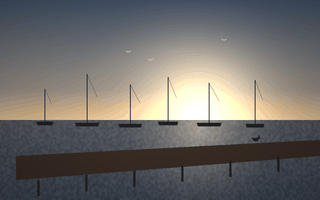
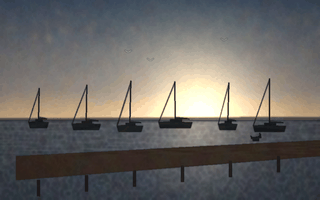
Art draft 2: the painterly pass, and trees that stand on their hill
"Art still needs work" - agreed, and the user caught the exact
defect mid-pass: the title's spruce row planted on a FIXED
baseline while the headland's ridge dropped away beneath it, so
past the cliff edge the trees hung in the air. sprucerow() now
takes a ridge polyline and plants every tree on the slope under
it; all four affected rows re-anchored.

The bigger move is a global PAINTERLY PASS on every scene: multi-
octave canvas grain; EDGE-HOLD ink - the image's own luminance
gradients darken into drawn, held edges, which is the single
cheapest step from poly-fill toward adventure-background; and
low-frequency independent RGB wobble, color mixed on the brush
instead of flat fills. Per scene: clouds() masses in the skies,
water_pull() horizontal brush strokes across every sea, vertical
rain pull on the winter storm.

Composition rounds the renders demanded: the coast's headland
edge now SLOPES into the sea instead of ending in a vertical
razor, its sea stacks went organic six-point with lit edges, and
Northwind's fleet stopped being six identical flagpoles - sheer
lines, cabin blocks, tilted masts, booms with furled sail
bundles, forestays, and a breakwater band so the horizon isn't a
ruler. All ten PNGs regenerated at 960x540 source (3x the filter
target; 1280 timed the batch out).

NOTE for the sign-off session: the AI-painted-source path (the
real fidelity end-state) is wired and waiting, but the image-gen
MCP tools need an interactive approval this autonomous session
[…]

diff --git a/godot/tools/art/scene_painter.py b/godot/tools/art/scene_painter.py
@@ -132,13 +132,108 @@ def spruce(arr, x, base, h, color, blur=0.6):
     fill_poly(arr, pts, color, blur=blur)
 
 
-def sprucerow(arr, x0, x1, base, color, seed=1, blur=0.6):
+def sprucerow(arr, x0, x1, base, color, seed=1, blur=0.6, ridge=None):
+    """A row of spruces. `base` plants them on a flat line; `ridge`
+    — a list of (x, y) points — plants each tree ON the slope
+    beneath it (a fixed base left trees hanging in the air past
+    the cliff edge on salmonberry's title, user-caught 2026-08)."""
     rng = np.random.default_rng(seed)
+
+    def base_at(xq):
+        if not ridge:
+            return base
+        if xq <= ridge[0][0]:
+            return ridge[0][1]
+        for i in range(len(ridge) - 1):
+            (ax, ay), (bx2, by2) = ridge[i], ridge[i + 1]
+            if ax <= xq <= bx2:
+                f = (xq - ax) / max(1e-5, bx2 - ax)
+                return ay + (by2 - ay) * f
+        return ridge[-1][1]
+
     x = x0
     while x < x1:
         h = rng.integers(int((x1 - x0) * 0.06), int((x1 - x0) * 0.16) + 6)
-        spruce(arr, x, base + rng.integers(-4, 5), h, color, blur)
+        spruce(arr, x, base_at(x) + rng.integers(-2, 5), h, color, blur)
         x += rng.integers(int(h * 0.35), int(h * 0.7) + 3)
+
+
+def octave_noise(H, W, seed=1, octaves=3, base_scale=6):
+    """Multi-octave value noise — paper/canvas grain with structure
+    at several sizes, not the single-frequency shimmer of noise()."""
+    out = np.zeros((H, W), np.float32)
+    amp, total = 1.0, 0.0
+    for o in range(octaves):
+        out += noise(H, W, scale=max(2, base_scale * (2 ** o)), seed=seed + o * 17,
+                     blur=1.0 + o) * amp
+        total += amp
+        amp *= 0.55
+    return out / total
+
+
+def streaks(H, W, seed=1, axis='H', scale=5):
+    """Anisotropic noise — directional brush pull. axis='H' stretches
+    horizontally (water, sky), 'V' vertically (walls, rain)."""
+    if axis == 'H':
+        n = noise(H, max(2, W // 10), scale=scale, seed=seed, blur=0.8)
+        im = Image.fromarray((n * 255).astype(np.uint8)).resize((W, H), Image.BICUBIC)
+    else:
+        n = noise(max(2, H // 10), W, scale=scale, seed=seed, blur=0.8)
+        im = Image.fromarray((n * 255).astype(np.uint8)).resize((W, H), Image.BICUBIC)
+    return np.asarray(im, np.float32) / 255.0
+
+
+def water_pull(arr, y0f, y1f, seed=6, amount=14.0):
+    """Horizontal brush pull across a water band — the strokes the
+    sea is painted with."""
+    H, W, _ = arr.shape
+    s = streaks(H, W, seed=seed, axis='H', scale=4)
+    prof = np.zeros(H, np.float32)
+    prof[int(H * y0f):int(H * y1f)] = 1.0
+    k = np.ones(9, np.float32) / 9.0
+    prof = np.convolve(prof, k, mode="same")
+    arr[:] = arr + ((s - 0.5) * amount * prof[:, None])[:, :, None]
+
+
+def clouds(arr, seed=8, top=0.0, bottom=0.45, tint=(255, 255, 255), amount=0.35):
+    """Soft cloud masses in the sky band: thresholded, blurred
+    octave noise, brighter toward their tops."""
+    H, W, _ = arr.shape
+    n = octave_noise(H, W, seed=seed, octaves=3, base_scale=4)
+    band = np.zeros((H, 1), np.float32)
+    y0, y1 = int(H * top), int(H * bottom)
+    if y1 > y0:
+        ys = np.linspace(0, 1, y1 - y0)
+        band[y0:y1, 0] = np.sin(ys * math.pi) ** 0.8
+    m = np.clip((n - 0.55) * 3.2, 0, 1) * band
+    m = np.asarray(Image.fromarray((m * 255).astype(np.uint8)).filter(
+        ImageFilter.GaussianBlur(6)), np.float32) / 255.0
+    arr[:] = arr * (1 - (m * amount)[:, :, None]) + \
+        np.array(tint, np.float32) * (m * amount)[:, :, None]
+
+
+def painterly(arr, seed=5, grain=9.0, edge_hold=0.35, hue_wobble=4.0):
+    """The global finish pass — what moves a poly-fill toward a
+    painting. Three effects:
+      1. multi-octave canvas grain over everything;
+      2. EDGE-HOLD: darken where the image's own luminance gradient
+         is strong — every shape gets a drawn, held edge (the
+         adventure-background ink);
+      3. low-frequency independent RGB wobble — mixed-on-the-brush
+         color variance instead of flat fills."""
+    H, W, _ = arr.shape
+    g = octave_noise(H, W, seed=seed, octaves=3, base_scale=5)
+    arr[:] = arr + ((g - 0.5) * grain)[:, :, None]
+    lum = arr.mean(axis=2)
+    gy, gx = np.gradient(lum)
+    mag = np.sqrt(gx * gx + gy * gy)
+    mag = np.clip(mag / 24.0, 0, 1)
+    mag = np.asarray(Image.fromarray((mag * 255).astype(np.uint8)).filter(
+        ImageFilter.GaussianBlur(0.8)), np.float32) / 255.0
+    arr[:] = arr * (1 - (mag * edge_hold)[:, :, None])
+    for c in range(3):
+        w = noise(H, W, scale=22, seed=seed + 31 + c * 7, blur=3.0)
+        arr[:, :, c] += (w - 0.5) * hue_wobble * 2.0
 
 
 def clamp(arr):
@@ -168,7 +263,8 @@ def salmonberry_title(H, W):
     fill_poly(arr, [(W * 0.55, hz), (W * 0.7, hz - H * 0.16), (W * 0.9, hz - H * 0.10), (W, hz - H * 0.13), (W, hz), ], C["fir_far"], blur=5)
     # mid headland
     fill_poly(arr, [(W * 0.62, hz), (W * 0.78, hz - H * 0.24), (W * 0.92, hz - H * 0.15), (W, hz - H * 0.19), (W, hz), ], C["fir_mid"], blur=2.5)
-    sprucerow(arr, int(W * 0.72), int(W * 0.99), hz - 4, C["fir_mid"], seed=7, blur=1.5)
+    sprucerow(arr, int(W * 0.72), int(W * 0.99), hz - 4, C["fir_mid"], seed=7, blur=1.5,
+              ridge=[(W * 0.62, hz), (W * 0.78, hz - H * 0.23), (W * 0.92, hz - H * 0.14), (W, hz - H * 0.18)])
     # sea
     sea = sky(H, W, [(0.0, C["sea_hi"]), (1.0, C["sea_lo"])])
     seam = np.zeros((H, W, 1), np.float32); seam[hz:, :, 0] = 1.0
@@ -191,7 +287,8 @@ def salmonberry_title(H, W):
     tex(arr, _mask(H, W, head_pts), 22, seed=14, scale=7)
     # sun-side rim on the headland's sea edge
     fill_poly(arr, [(W * 0.14, H * 0.36), (W * 0.26, H * 0.52), (W * 0.245, H * 0.545), (W * 0.132, H * 0.375)], (120, 140, 104), blur=1.5, opacity=0.7)
-    sprucerow(arr, int(W * 0.02), int(W * 0.28), int(H * 0.40), C["fir"], seed=3, blur=1.0)
+    sprucerow(arr, int(W * 0.02), int(W * 0.23), int(H * 0.40), C["fir"], seed=3, blur=1.0,
+              ridge=[(0, H * 0.31), (W * 0.14, H * 0.37), (W * 0.26, H * 0.53)])
     # the cannery on pilings + the house, small, at the base of the headland
     dcx = int(W * 0.30)
     fill_poly(arr, [(dcx, hz + 4), (dcx + W * 0.14, hz + 4), (dcx + W * 0.14, hz + 22), (dcx, hz + 22)], C["rust"], blur=0.5)
@@ -218,6 +315,8 @@ def salmonberry_title(H, W):
     veil = np.asarray(Image.fromarray((veil[:, :, 0] * 255).astype(np.uint8)).filter(ImageFilter.GaussianBlur(20)), np.float32)[:, :, None] / 255.0
     arr[:] = arr * (1 - veil * 0.35) + np.array(C["fog_lo"], np.float32) * (veil * 0.35)
     # gulls
+    clouds(arr, seed=8, top=0.02, bottom=0.42, tint=(240, 238, 230), amount=0.30)
+    water_pull(arr, 0.62, 1.0, seed=6)
     _gulls(arr, [(W * 0.6, H * 0.22), (W * 0.66, H * 0.27), (W * 0.52, H * 0.18)])
     vignette(arr, 0.30)
     return arr
@@ -248,17 +347,28 @@ def salmonberry_coast(H, W):
     arr = sky(H, W, [(0.0, C["fog_hi"]), (0.6, (200, 198, 188)), (1.0, C["fog_lo"])])
     hz = int(H * 0.58)
     glow(arr, W * 0.7, hz - 20, W * 0.4, (255, 228, 188), 0.4)
-    fill_poly(arr, [(W * 0.6, hz), (W * 0.78, hz - H * 0.3), (W, hz - H * 0.22), (W, hz)], C["fir_mid"], blur=3)
-    fill_poly(arr, [(W * 0.72, H), (W * 0.72, hz - H * 0.34), (W * 0.9, hz - H * 0.2), (W, hz - H * 0.1), (W, H)], C["fir"], blur=1)
-    sprucerow(arr, int(W * 0.74), int(W * 0.99), hz - H * 0.30, C["fir"], seed=5, blur=1.2)
+    fill_poly(arr, [(W * 0.6, hz), (W * 0.78, hz - H * 0.3), (W, hz - H * 0.22), (W, hz)], C["fir_far"], blur=4)
+    head_pts2 = [(W * 0.86, H), (W * 0.80, hz + H * 0.08), (W * 0.745, hz - H * 0.18),
+                 (W * 0.76, hz - H * 0.34), (W * 0.9, hz - H * 0.2), (W, hz - H * 0.1), (W, H)]
+    grad_poly(arr, head_pts2, (86, 112, 88), (34, 50, 40), blur=1)
+    tex(arr, _mask(H, W, head_pts2), 20, seed=6, scale=8)
+    sprucerow(arr, int(W * 0.74), int(W * 0.99), hz - H * 0.30, C["fir"], seed=5, blur=1.2,
+              ridge=[(W * 0.76, hz - H * 0.33), (W * 0.9, hz - H * 0.19), (W, hz - H * 0.09)])
     sea = sky(H, W, [(0.0, C["sea_hi"]), (1.0, C["sea_lo"])])
     seam = np.zeros((H, W, 1), np.float32); seam[hz:, :, 0] = 1.0
     arr[:] = arr * (1 - seam) + sea * seam
     tex(arr, seam[:, :, 0], 24, seed=4, scale=6)
+    # horizon haze so the seam isn't a razor line
+    fill_poly(arr, [(0, hz - H * 0.02), (W, hz - H * 0.02), (W, hz + H * 0.03), (0, hz + H * 0.03)], C["fog_lo"], blur=8, opacity=0.45)
     for (cx, sh, sw) in [(W * 0.18, H * 0.26, W * 0.045), (W * 0.26, H * 0.16, W * 0.03)]:
         base = hz + 8
-        fill_poly(arr, [(cx - sw, base), (cx - sw * 0.4, base - sh), (cx + sw * 0.4, base - sh), (cx + sw, base)], C["basalt"], blur=1)
+        pts = [(cx - sw, base), (cx - sw * 0.75, base - sh * 0.65), (cx - sw * 0.3, base - sh),
+               (cx + sw * 0.25, base - sh * 0.96), (cx + sw * 0.7, base - sh * 0.7), (cx + sw, base)]
+        fill_poly(arr, pts, C["basalt"], blur=1.1)
+        fill_poly(arr, [(cx + sw * 0.05, base), (cx + sw * 0.18, base - sh * 0.9), (cx + sw * 0.55, base - sh * 0.65), (cx + sw, base)], C["basalt_lit"], blur=1.2, opacity=0.55)
     fill_poly(arr, [(0, hz + 6), (W, hz + 2), (W, hz + 16), (0, hz + 22)], C["foam"], blur=3, opacity=0.5)
+    clouds(arr, seed=12, top=0.02, bottom=0.40, tint=(238, 236, 228), amount=0.28)
+    water_pull(arr, 0.58, 1.0, seed=9)
     _gulls(arr, [(W * 0.4, H * 0.2), (W * 0.46, H * 0.24)])
     vignette(arr, 0.3)
     return arr
@@ -342,6 +452,7 @@ def salmonberry_town(H, W):
     fill_poly(arr, [(W * 0.335, H * 0.765), (W * 0.395, H * 0.765), (W * 0.39, H * 0.79), (W * 0.34, H * 0.79)], (188, 198, 204), blur=0.5, opacity=0.85)
     for wxi in (0.315, 0.40):
         fill_poly(arr, [(W * wxi, H * 0.87), (W * (wxi + 0.012), H * 0.87), (W * (wxi + 0.012), H * 0.885), (W * wxi, H * 0.885)], (30, 28, 28), blur=0.4)
+    clouds(arr, seed=29, top=0.0, bottom=0.30, tint=(228, 228, 222), amount=0.24)
     _gulls(arr, [(W * 0.5, H * 0.3), (W * 0.55, H * 0.34)])
     vignette(arr, 0.32)
     return arr
@@ -381,7 +492,10 @@ def salmonberry_house(H, W):
         fill_poly(arr, [(sx0, ly - H * 0.028), (sx0 + W * 0.035, ly - H * 0.024), (sx0 + W * 0.045, ly + H * 0.035), (sx0 + W * 0.008, ly + H * 0.04)], C["foam"], blur=1.0, opacity=0.92)
     # the path down, pale, switchbacked
     fill_poly(arr, [(hx + W * 0.07, hy + H * 0.16), (hx + W * 0.09, hy + H * 0.16), (W * 0.5, H * 0.9), (W * 0.42, H)], (150, 138, 112), blur=2, opacity=0.7)
-    sprucerow(arr, int(W * 0.8), W, int(H * 0.6), C["fir"], seed=8, blur=1.0)
+    sprucerow(arr, int(W * 0.8), W, int(H * 0.6), C["fir"], seed=8, blur=1.0,
+              ridge=[(W * 0.78, H * 0.62), (W, H * 0.58)])
+    clouds(arr, seed=15, top=0.02, bottom=0.38, tint=(244, 234, 220), amount=0.26)
+    water_pull(arr, 0.66, 1.0, seed=11)
     _gulls(arr, [(W * 0.62, H * 0.25)])
     vignette(arr, 0.3)
     return arr
@@ -471,9 +585,11 @@ def salmonberry_winter(H, W):
             pts.append((x + sh - wid, yy))
         fill_poly(arr, pts, (38, 50, 42), blur=0.8)
         x += int(rng.integers(22, 44))
-    # rain streaks
-    streak = noise(H, W, scale=2, seed=23, blur=0)
-    arr[:] = arr + ((streak[:, :, None] - 0.5) * 6)
+    clouds(arr, seed=19, top=0.0, bottom=0.5, tint=(150, 156, 164), amount=0.5)
+    water_pull(arr, 0.55, 1.0, seed=21, amount=22.0)
+    # rain: vertical pull over everything
+    rs = streaks(H, W, seed=23, axis='V', scale=3)
+    arr[:] = arr + ((rs - 0.5) * 7)[:, :, None]
     vignette(arr, 0.4)
     return arr
 
@@ -512,6 +628,7 @@ def estuary4_watershed(H, W):
     fill_poly(arr, [(bx - 2, by), (bx + 2, by), (bx + 1, by + 22), (bx - 1, by + 22)], (90, 98, 104), blur=0.4)
     fill_poly(arr, [(bx - 7, by - 10), (bx + 5, by - 14), (bx + 8, by - 2), (bx - 2, by + 2)], (120, 128, 134), blur=0.6)
     fill_poly(arr, [(bx + 4, by - 14), (bx + 14, by - 18), (bx + 15, by - 16), (bx + 6, by - 11)], (90, 98, 104), blur=0.4)
+    clouds(arr, seed=35, top=0.0, bottom=0.32, tint=(230, 234, 230), amount=0.25)
     vignette(arr, 0.25)
     return arr
 
@@ -528,15 +645,24 @@ def northwind_morning(H, W):
     tex(arr, seam[:, :, 0], 20, seed=41, scale=7)
     glow(arr, W * 0.62, hz + 26, W * 0.3, (255, 224, 168), 0.35)
     # moored fleet: hulls + mast lines against the light
+    # far breakwater band so the fleet doesn't sit on a razor horizon
+    fill_poly(arr, [(0, hz - 4), (W, hz - 8), (W, hz + 2), (0, hz + 4)], (54, 58, 66), blur=2, opacity=0.8)
     rng = np.random.default_rng(43)
     for i in range(6):
-        bx = W * (0.14 + i * 0.13) + rng.integers(-10, 10)
-        bw = W * rng.uniform(0.05, 0.08)
-        by = hz + 6 + i % 3 * 4
-        fill_poly(arr, [(bx - bw / 2, by), (bx + bw / 2, by), (bx + bw / 2 - 4, by + 12), (bx - bw / 2 + 4, by + 12)], C["ink"], blur=0.7)
-        mh = H * rng.uniform(0.16, 0.3)
-        fill_poly(arr, [(bx - 1, by), (bx + 1, by), (bx + 1, by - mh), (bx - 1, by - mh)], C["ink"], blur=0.3)
-        fill_poly(arr, [(bx, by - mh), (bx + bw * 0.4, by - mh * 0.55), (bx + bw * 0.4 + 1, by - mh * 0.55 + 2), (bx + 1, by - mh + 2)], C["ink"], blur=0.3, opacity=0.8)
+        bx = W * (0.12 + i * 0.145) + rng.integers(-14, 14)
+        bw = W * rng.uniform(0.06, 0.11)
+        by = hz + 8 + (i % 3) * 5
+        # hull: sheer line up at the bow, small cabin block
+        fill_poly(arr, [(bx - bw / 2, by - 3), (bx - bw * 0.2, by - 5), (bx + bw / 2, by - 2), (bx + bw / 2 - 5, by + 13), (bx - bw / 2 + 5, by + 13)], C["ink"], blur=0.7)
+        fill_poly(arr, [(bx - bw * 0.15, by - 10), (bx + bw * 0.2, by - 10), (bx + bw * 0.2, by - 3), (bx - bw * 0.15, by - 3)], C["ink"], blur=0.5)
+        mh = H * rng.uniform(0.17, 0.30)
+        tilt = rng.uniform(-0.03, 0.03) * mh
+        fill_poly(arr, [(bx - 1, by - 8), (bx + 1, by - 8), (bx + 1 + tilt, by - mh), (bx - 1 + tilt, by - mh)], C["ink"], blur=0.3)
+        # boom + furled sail bundle along it
+        fill_poly(arr, [(bx, by - 14), (bx + bw * 0.42, by - 12), (bx + bw * 0.42, by - 10), (bx, by - 11)], C["ink"], blur=0.35)
+        fill_poly(arr, [(bx + 2, by - 17), (bx + bw * 0.36, by - 14), (bx + bw * 0.36, by - 12), (bx + 2, by - 14)], (52, 50, 52), blur=0.5, opacity=0.9)
+        # forestay line, bow to masthead
+        fill_poly(arr, [(bx + tilt, by - mh), (bx - bw / 2, by - 4), (bx - bw / 2 + 1.5, by - 3), (bx + tilt + 1.5, by - mh + 1.5)], C["ink"], blur=0.25, opacity=0.7)
     # the dock: dark planks running right, pilings
     fill_poly(arr, [(W * 0.05, H * 0.78), (W, H * 0.70), (W, H * 0.78), (W * 0.05, H * 0.9)], (56, 44, 36), blur=0.7)
     for i in range(6):
@@ -549,6 +675,8 @@ def northwind_morning(H, W):
     fill_poly(arr, [(dx + 6, dy - 12), (dx + 14, dy - 18), (dx + 15, dy - 8), (dx + 8, dy - 8)], C["ink"], blur=0.4)
     fill_poly(arr, [(dx + 9, dy - 18), (dx + 11, dy - 22), (dx + 13, dy - 18)], C["ink"], blur=0.3)
     fill_poly(arr, [(dx - 10, dy - 9), (dx - 16, dy - 14), (dx - 15, dy - 6), (dx - 10, dy - 4)], C["ink"], blur=0.4)
+    clouds(arr, seed=25, top=0.0, bottom=0.35, tint=(255, 214, 160), amount=0.30)
+    water_pull(arr, 0.60, 0.78, seed=27)
     _gulls(arr, [(W * 0.4, H * 0.26), (W * 0.47, H * 0.3), (W * 0.7, H * 0.2)])
     vignette(arr, 0.3)
     return arr
@@ -608,10 +736,11 @@ SCENES = {
 }
 
 
-def paint(scene_id, out_png, source_png=None, W=1280, H=720, colors=256, preview=0):
+def paint(scene_id, out_png, source_png=None, W=960, H=540, colors=256, preview=0):
     if scene_id not in SCENES:
         raise SystemExit("unknown scene '%s' (see --list)" % scene_id)
     arr = SCENES[scene_id](H, W)
+    painterly(arr)
     src = Image.fromarray(clamp(arr))
     sp = source_png or (out_png.rsplit(".", 1)[0] + ".src.png")
     os.makedirs(os.path.dirname(os.path.abspath(sp)), exist_ok=True)

diff --git a/lore/_SLOWSTICK_AESTHETIC_BIBLE.md b/lore/_SLOWSTICK_AESTHETIC_BIBLE.md
@@ -31,6 +31,23 @@ What this changes:
   are now the GOAL, not banned. (The bans still apply to the 3D VN
   locales and the `demoscene_post` shader stack — those are a separate
   system.) Font floor 12 still holds for UI text drawn over scenes.
+- **Procedural draft 2 (same day, after "art still needs work"):**
+  the painter gained a global PAINTERLY PASS (multi-octave canvas
+  grain · EDGE-HOLD ink that darkens along the image's own
+  luminance gradients, giving every shape a drawn edge · low-freq
+  independent RGB wobble = mixed-on-the-brush color) plus
+  per-scene atmosphere (clouds(), water_pull() horizontal brush
+  strokes, vertical rain pull) — and the composition fixes the
+  renders demanded: sprucerow() takes a RIDGE so trees plant on
+  the slope under them (a fixed baseline left the title's trees
+  hanging in air past the cliff edge — user-caught live),
+  headland edges SLOPE into the sea (no vertical razor cuts),
+  hulls got sheer lines/cabins/booms/furled sails/forestays, sea
+  stacks went organic six-point. Sources at 960×540 (3× the
+  filter target; 1280×720 timed batches out). NOTE: the AI-source
+  path via the ElevenLabs image tools needs an interactive MCP
+  approval the autonomous session cannot grant — run it from the
+  keyboard (or art_studio.html) when signing off.
 - **First shipped wave (2026-08-19):** the painter's registry grew
   3 → 10 scenes and the first PNGs LANDED IN ASSETS (era-filtered
   320×200/256c): Salmonberry's full set (title · song · coast ·
